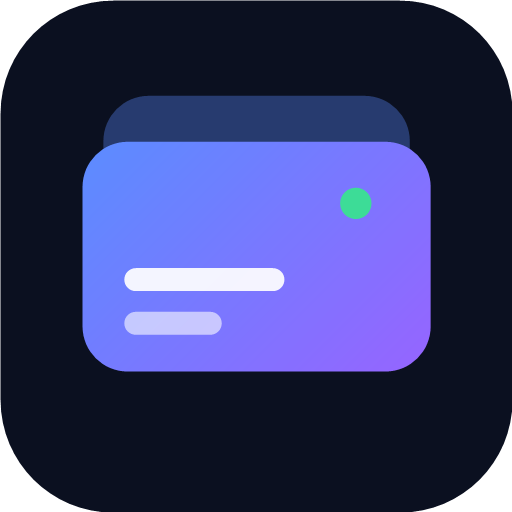
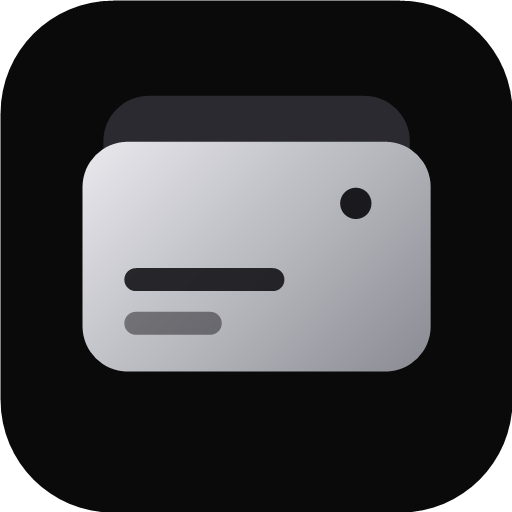
Renk paletini antrasit/siyah tonlarina cevir

diff --git a/styles.css b/styles.css
@@ -1,17 +1,17 @@
 /* Tek tema: koyu. Telefonda tam ekran, masaüstünde ortalanmış sütun. */
 
 :root {
-  --bg: #0b1020;
-  --bg-elev: #141a2e;
-  --bg-elev-2: #1c2340;
-  --line: #262e4d;
-  --text: #eef1fa;
-  --muted: #8b95b5;
-  --accent: #5b8cff;
-  --accent-soft: #1d2a53;
-  --danger: #ff5c5c;
-  --good: #3ddc97;
-  --warn: #ffb020;
+  --bg: #0a0a0b;          /* neredeyse siyah */
+  --bg-elev: #131316;     /* kart yüzeyi */
+  --bg-elev-2: #1c1c21;   /* girdi alanları, basılı hâl */
+  --line: #2b2b32;        /* antrasit kenarlık */
+  --text: #ededf0;
+  --muted: #8a8a93;
+  --accent: #e9e9ee;      /* vurgu: kırık beyaz */
+  --accent-soft: #26262d;
+  --danger: #ff6b6b;
+  --good: #4ade80;
+  --warn: #fbbf24;
   --radius: 14px;
   --safe-top: env(safe-area-inset-top, 0px);
   --safe-bottom: env(safe-area-inset-bottom, 0px);
@@ -50,7 +50,7 @@ svg { width: 22px; height: 22px; fill: none; stroke: currentColor; stroke-width:
   align-items: center;
   justify-content: space-between;
   gap: 12px;
-  background: rgba(11, 16, 32, 0.82);
+  background: rgba(10, 10, 11, 0.82);
   backdrop-filter: blur(14px);
   border-bottom: 1px solid var(--line);
 }
@@ -155,8 +155,8 @@ svg { width: 22px; height: 22px; fill: none; stroke: currentColor; stroke-width:
   background: var(--accent-soft); color: var(--accent);
   margin-left: 6px;
 }
-.badge.warn { background: #3a2a0c; color: var(--warn); }
-.badge.muted { background: #232a45; color: var(--muted); }
+.badge.warn { background: #33280f; color: var(--warn); }
+.badge.muted { background: #232329; color: var(--muted); }
 
 .due-soon .item-note { color: var(--warn); }
 
@@ -212,8 +212,8 @@ textarea.input { resize: vertical; }
   cursor: pointer;
 }
 .btn:active { filter: brightness(1.25); }
-.btn.primary { background: var(--accent); border-color: var(--accent); color: #fff; }
-.btn.danger { background: transparent; border-color: #4a2230; color: var(--danger); }
+.btn.primary { background: var(--accent); border-color: var(--accent); color: var(--bg); }
+.btn.danger { background: transparent; border-color: #45292c; color: var(--danger); }
 .btn.compact { padding: 8px 13px; font-size: 14px; }
 .btn.wide { width: 100%; }
 
@@ -260,7 +260,7 @@ textarea.input { resize: vertical; }
   z-index: 20;
   display: flex;
   padding-bottom: var(--safe-bottom);
-  background: rgba(11, 16, 32, 0.9);
+  background: rgba(10, 10, 11, 0.9);
   backdrop-filter: blur(14px);
   border-top: 1px solid var(--line);
 }
@@ -284,9 +284,9 @@ textarea.input { resize: vertical; }
   border-radius: 50%;
   border: 0;
   background: var(--accent);
-  color: #fff;
+  color: var(--bg);
   font-size: 30px; line-height: 1;
-  box-shadow: 0 8px 24px rgba(91, 140, 255, 0.35);
+  box-shadow: 0 8px 24px rgba(0, 0, 0, 0.55);
   cursor: pointer;
 }
 

diff --git a/js/model.js b/js/model.js
@@ -68,9 +68,11 @@ export function newSubscription(patch = {}) {
   };
 }
 
+// Antrasit arayüzle uyumlu, bastırılmış tonlar: griye yakın ama
+// abonelikleri birbirinden ayırmaya yetecek kadar farklı.
 const PALETTE = [
-  '#ef4444', '#f97316', '#eab308', '#22c55e', '#14b8a6',
-  '#3b82f6', '#6366f1', '#a855f7', '#ec4899', '#64748b',
+  '#c9ccd1', '#9aa0a6', '#7d8590', '#a68b8b', '#a6957f',
+  '#9aa68b', '#8ba69f', '#8b95a6', '#9a8ba6', '#a68b9a',
 ];
 
 export function pickColor() {

diff --git a/index.html b/index.html
@@ -5,7 +5,7 @@
 <meta name="viewport" content="width=device-width, initial-scale=1, viewport-fit=cover">
 <title>Abonelikler</title>
 <meta name="description" content="Aylık ve yıllık aboneliklerini tek yerden takip et.">
-<meta name="theme-color" content="#0b1020">
+<meta name="theme-color" content="#0a0a0b">
 <link rel="manifest" href="manifest.webmanifest">
 <link rel="icon" href="icons/icon-192.png">
 <link rel="apple-touch-icon" href="icons/apple-touch-icon.png">
